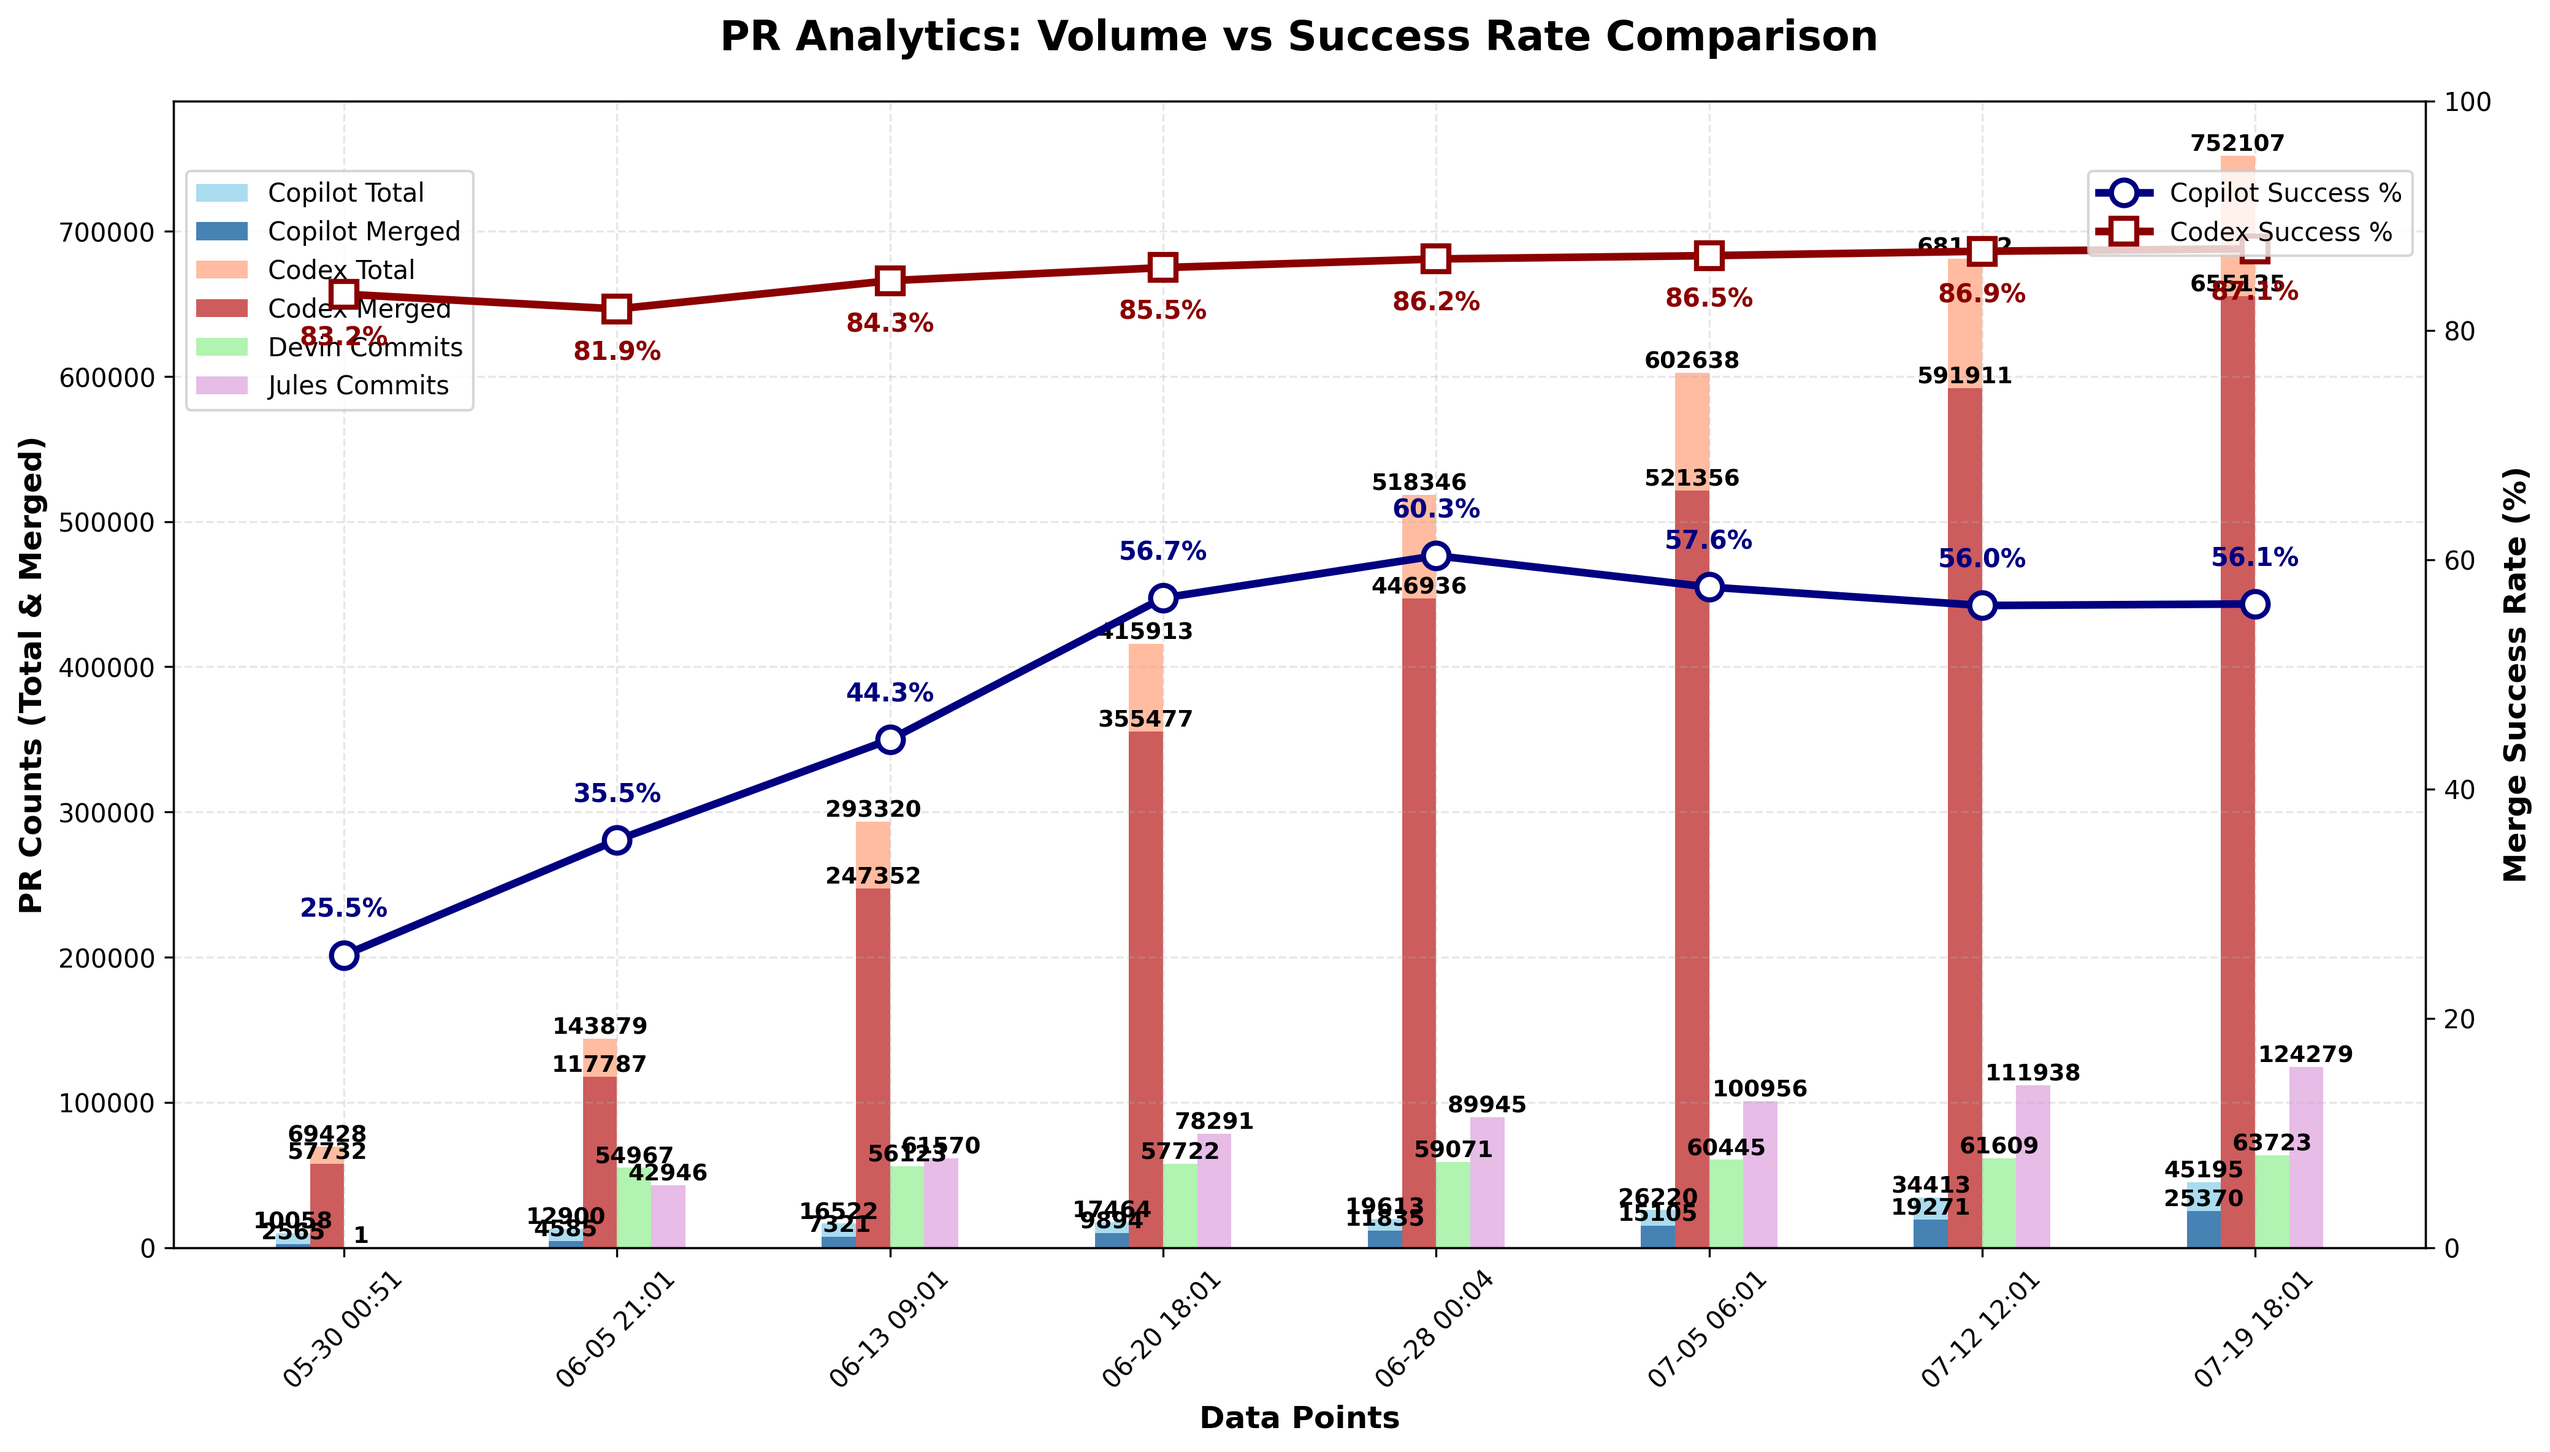
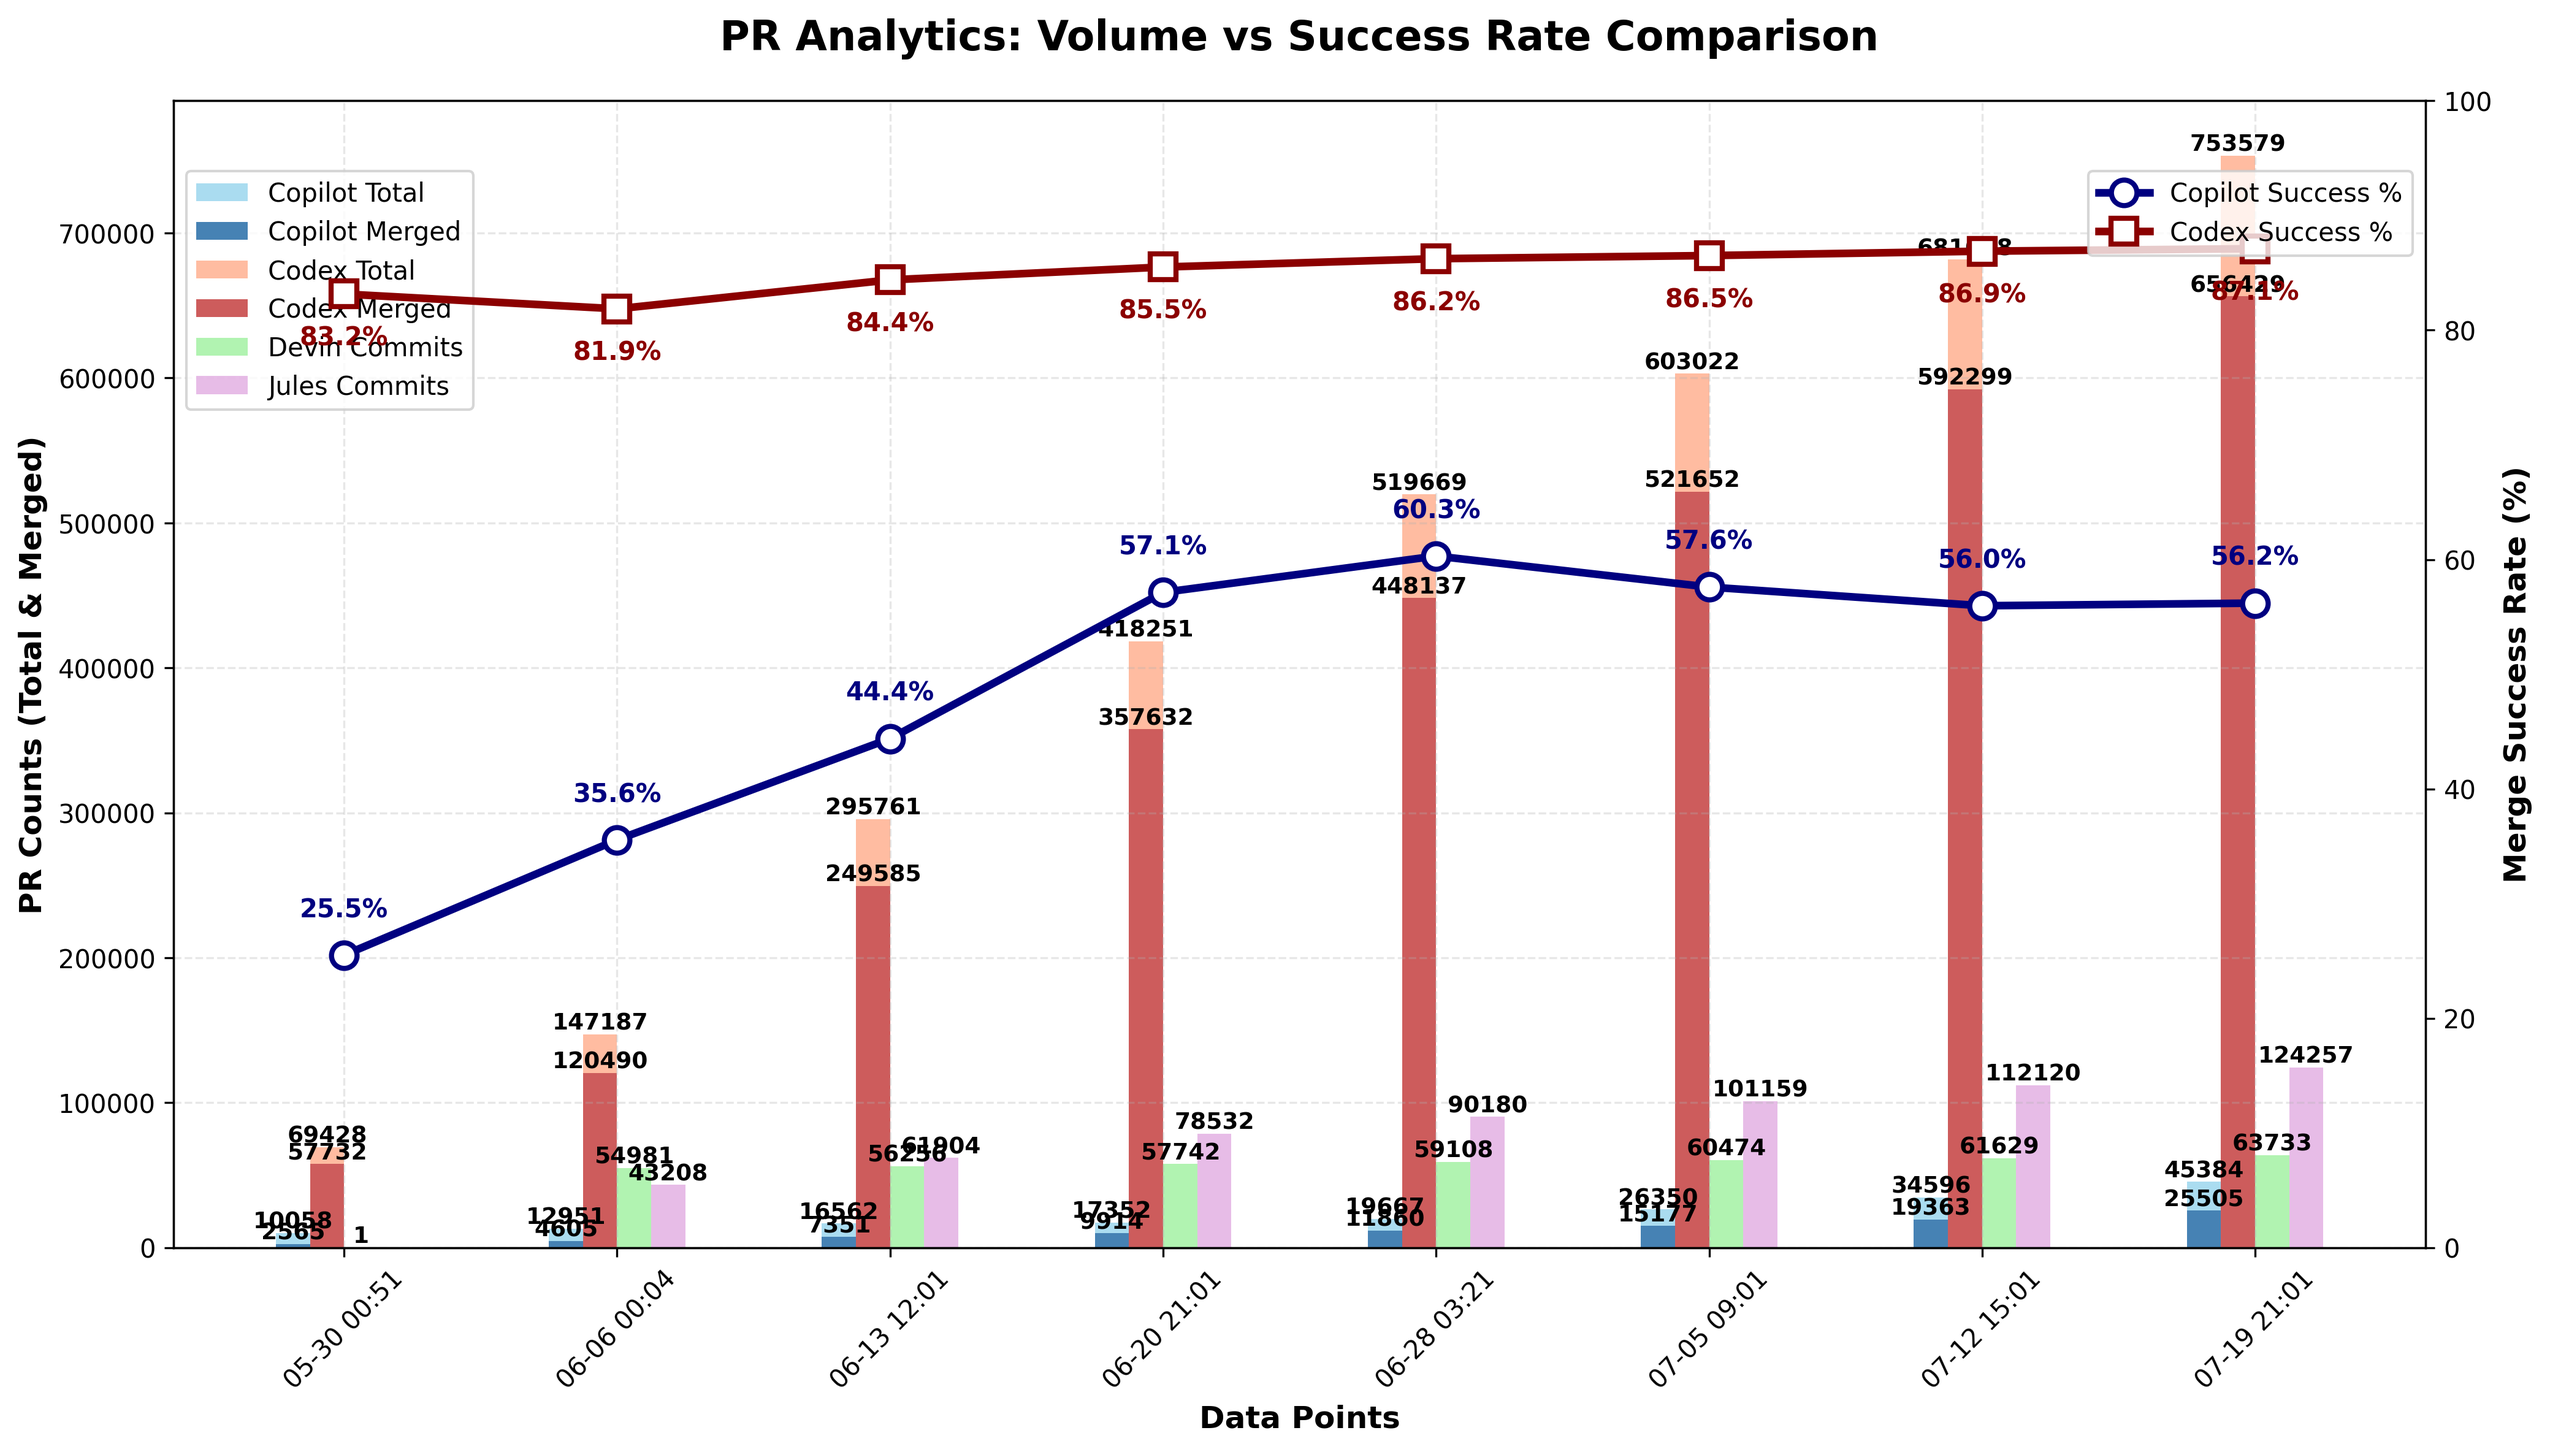
chore: update PR‑approval chart

diff --git a/docs/index.html b/docs/index.html
@@ -453,6 +453,7 @@
                         <td>N/A</td>
                         <td>N/A</td>
                         <td>N/A</td>
+                        <td>N/A</td>
                     </tr>
                     <tr>
                         <td>Codex</td>
@@ -864,27 +865,28 @@
                         <td>N/A</td>
                         <td>N/A</td>
                         <td>N/A</td>
+                        <td>N/A</td>
                     </tr>
                 <tr>
                         <td>Devin</td>
                         <td>N/A</td>
                         <td>N/A</td>
                         <td>N/A</td>
-                        <td>63,723</td>
+                        <td>63,733</td>
                     </tr>
                     <tr>
                         <td>Jules</td>
                         <td>N/A</td>
                         <td>N/A</td>
                         <td>N/A</td>
-                        <td>124,279</td>
+                        <td>124,257</td>
                     </tr>
                     </tbody>
             </table>
         </section>
 
         <footer>
-            <p>Last updated: <span id="last-updated">July 19, 2025 18:01 UTC</span></p>
+            <p>Last updated: <span id="last-updated">July 19, 2025 21:01 UTC</span></p>
             <p><a href="https://github.com/aavetis/ai-pr-watcher">View on GitHub</a></p>
         </footer>
     </div>

diff --git a/README.md b/README.md
@@ -19,7 +19,7 @@ Explore the GitHub search queries used:
 
 | Service | Total PRs | Merged PRs | Merge Rate | Total Commits |
 | ------- | --------- | ---------- | ---------- | ------------- |
-| Copilot | 45,195 | 25,370 | 56.13% | N/A           |
-| Codex   | 752,107 | 655,135 | 87.11% | N/A           |
-| Devin   | N/A       | N/A        | N/A        | 63,723 |
-| Jules   | N/A       | N/A        | N/A        | 124,279 |
+| Copilot | 45,384 | 25,505 | 56.20% | N/A           |
+| Codex   | 753,579 | 656,429 | 87.11% | N/A           |
+| Devin   | N/A       | N/A        | N/A        | 63,733 |
+| Jules   | N/A       | N/A        | N/A        | 124,257 |
